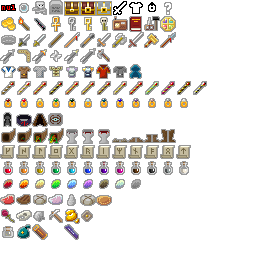
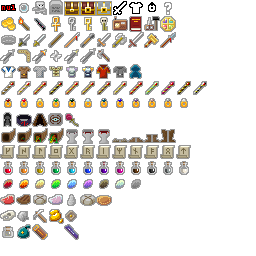
V0.2.1 : Removed now unused quest items (rat skull gets to stick around a few versions to help old saves)

Changed region(s): [[0.0, 0.8125, 0.375, 0.875], [0.25, 0.4375, 0.3125, 0.5]]

diff --git a/src/com/shatteredpixel/shatteredpixeldungeon/sprites/ItemSpriteSheet.java b/src/com/shatteredpixel/shatteredpixeldungeon/sprites/ItemSpriteSheet.java
@@ -135,7 +135,7 @@ public class ItemSpriteSheet {
     public static final int ARTIFACT_ARMBAND    = ROW8+1;
     public static final int ARTIFACT_CAPE       = ROW8+2;
     public static final int ARTIFACT_TALISMAN   = ROW8+3;
-
+    public static final int ARTIFACT_ROSE       = ROW8+4;
 
     //Row Nine: Artifacts with Dynamic Images
     public static final int ARTIFACT_HORN1      = ROW9+0;
@@ -199,12 +199,11 @@ public class ItemSpriteSheet {
     public static final int PASTY		= ROW13+6;
 
     //Row Fourteen: Quest Items
-    public static final int ROSE	= ROW14+0;
-    public static final int SKULL	= ROW14+1;
-    public static final int DUST	= ROW14+2;
-    public static final int PICKAXE	= ROW14+3;
-    public static final int ORE		= ROW14+4;
-    public static final int TOKEN	= ROW14+5;
+    public static final int SKULL	= ROW14+0;
+    public static final int DUST	= ROW14+1;
+    public static final int PICKAXE	= ROW14+2;
+    public static final int ORE		= ROW14+3;
+    public static final int TOKEN	= ROW14+4;
 
     //Row Fifteen: Containers/Bags
     public static final int VIAL	    = ROW15+0;

diff --git a/src/com/shatteredpixel/shatteredpixeldungeon/windows/WndSadGhost.java b/src/com/shatteredpixel/shatteredpixeldungeon/windows/WndSadGhost.java
@@ -25,13 +25,10 @@ import com.shatteredpixel.shatteredpixeldungeon.Dungeon;
 import com.shatteredpixel.shatteredpixeldungeon.actors.hero.Hero;
 import com.shatteredpixel.shatteredpixeldungeon.actors.mobs.npcs.Ghost;
 import com.shatteredpixel.shatteredpixeldungeon.items.Item;
-import com.shatteredpixel.shatteredpixeldungeon.items.quest.DriedRose;
 import com.shatteredpixel.shatteredpixeldungeon.scenes.PixelScene;
-import com.shatteredpixel.shatteredpixeldungeon.sprites.ItemSprite;
 import com.shatteredpixel.shatteredpixeldungeon.ui.RedButton;
 import com.shatteredpixel.shatteredpixeldungeon.ui.Window;
 import com.shatteredpixel.shatteredpixeldungeon.utils.GLog;
-import com.shatteredpixel.shatteredpixeldungeon.utils.Utils;
 
 public class WndSadGhost extends Window {
 

diff --git a/src/com/shatteredpixel/shatteredpixeldungeon/items/quest/RatSkull.java b/src/com/shatteredpixel/shatteredpixeldungeon/items/quest/RatSkull.java
@@ -20,6 +20,8 @@ package com.shatteredpixel.shatteredpixeldungeon.items.quest;
 import com.shatteredpixel.shatteredpixeldungeon.items.Item;
 import com.shatteredpixel.shatteredpixeldungeon.sprites.ItemSpriteSheet;
 
+//this one's still hanging around to support quests from old saves
+//TODO: remove this when saves from v0.2.1 are no longer supported
 public class RatSkull extends Item {
 	
 	{
